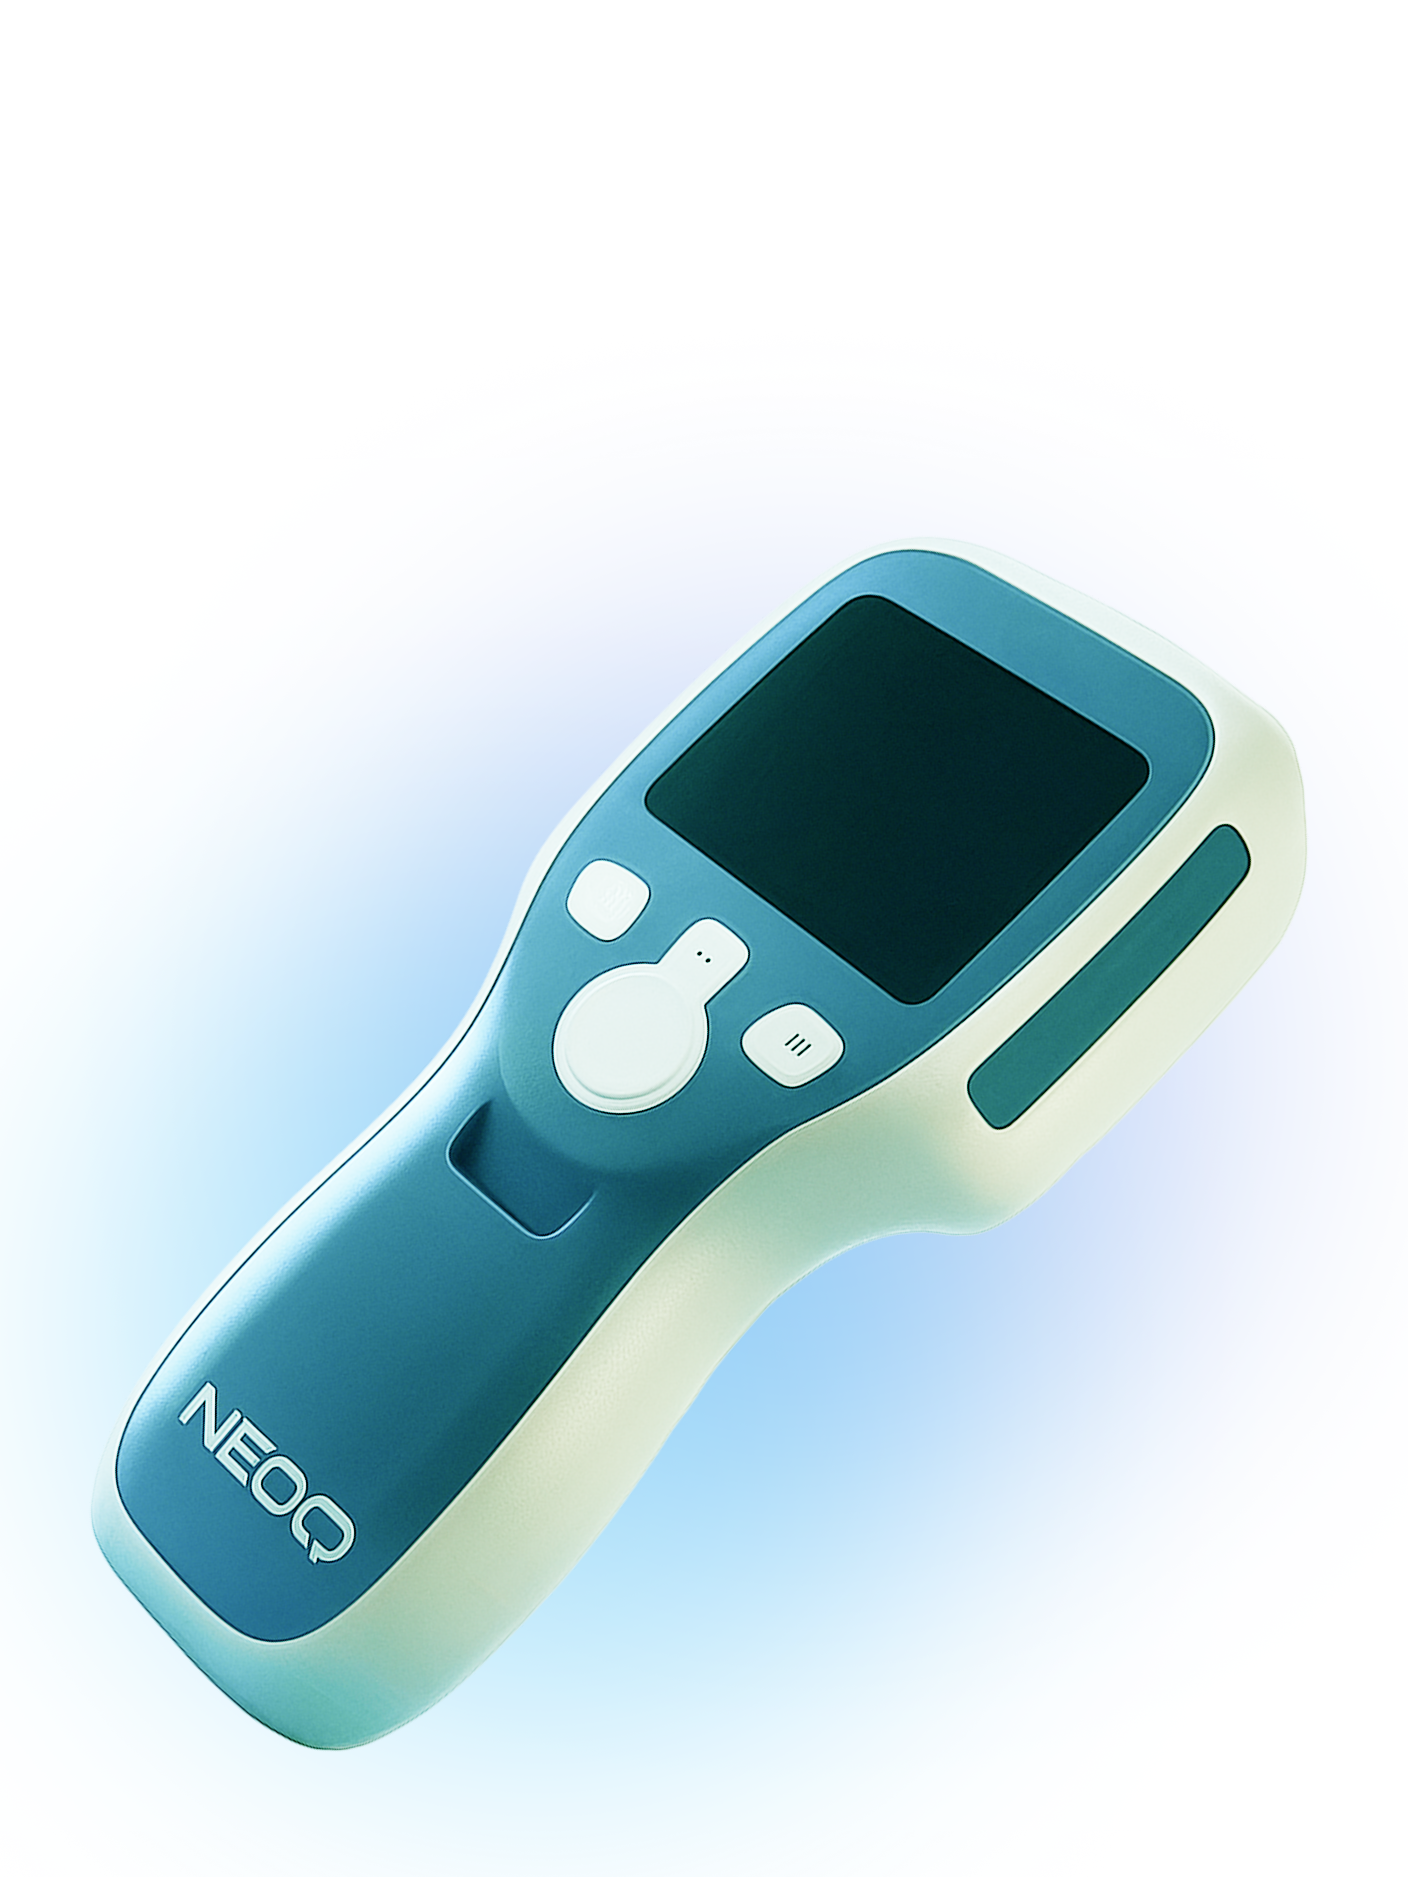
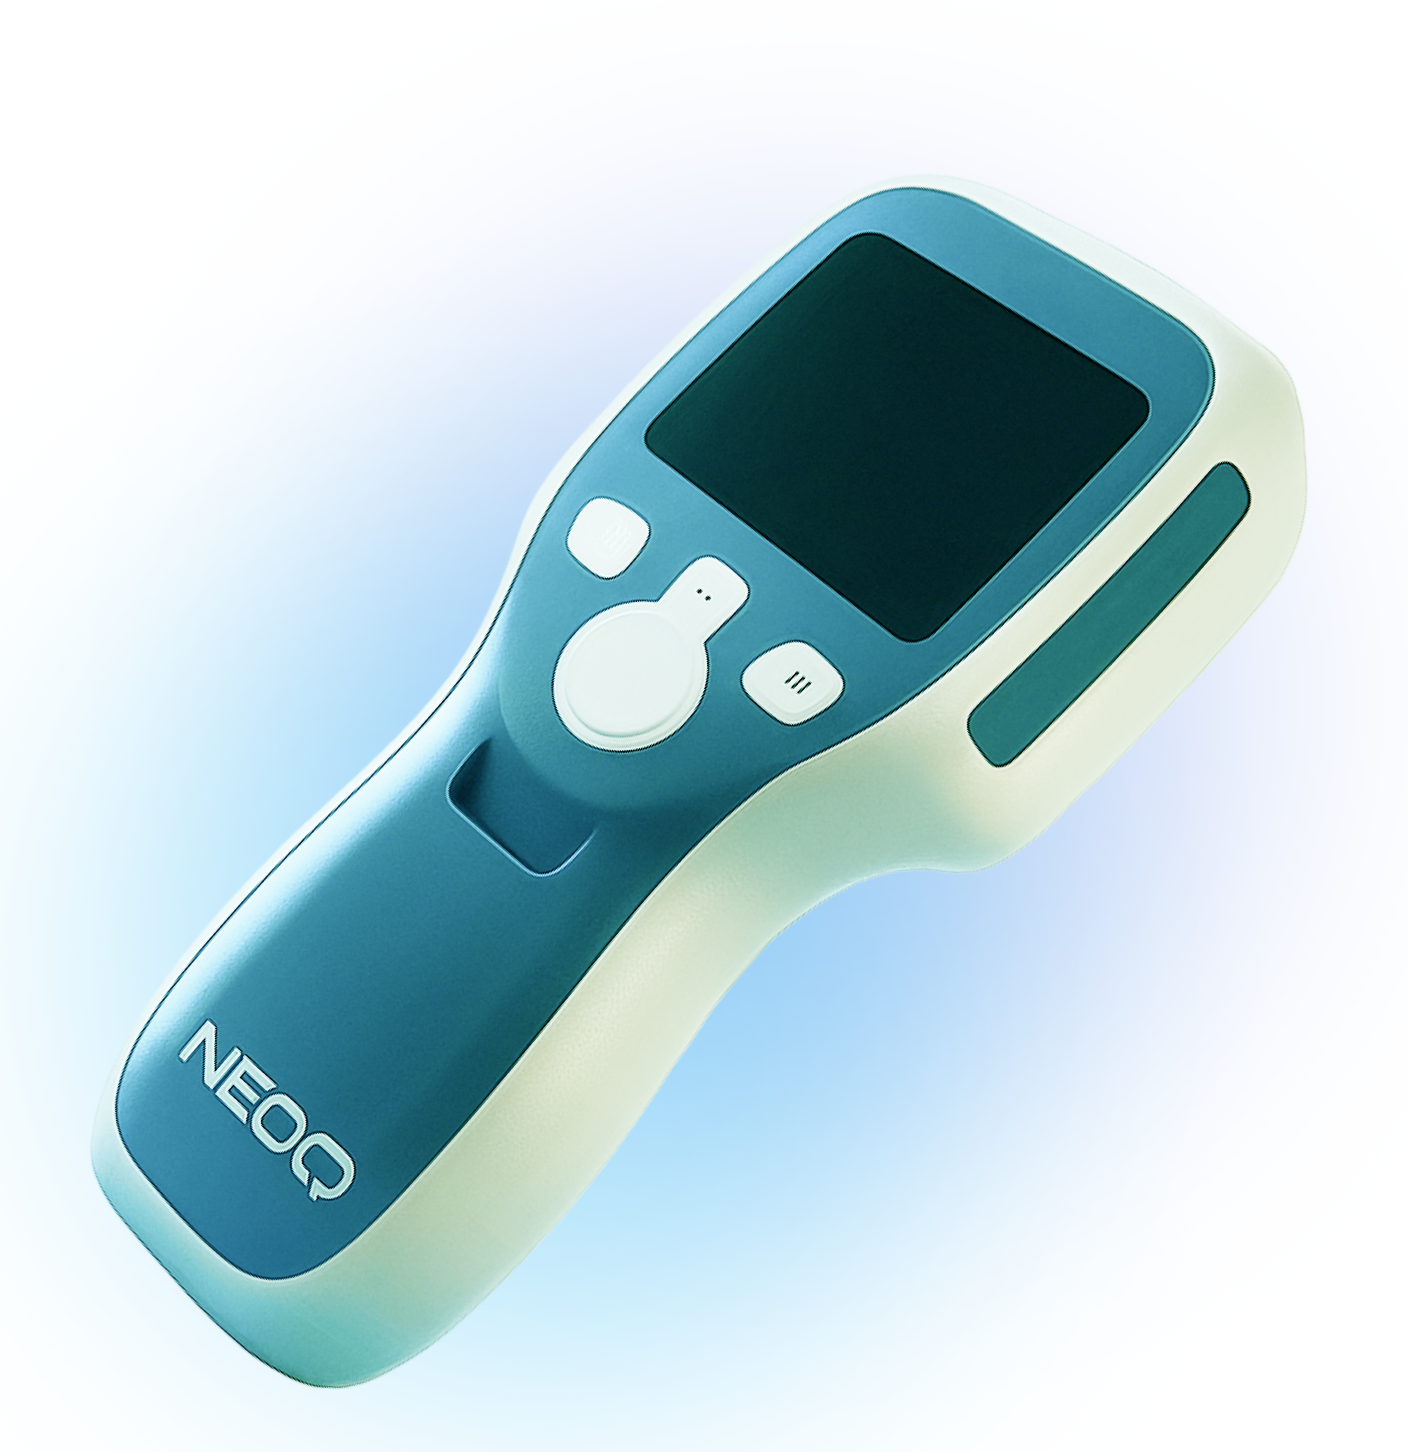
product card adjusted

Changed region(s): [[0.0625, 0.124, 0.9375, 0.9607], [0.4062, 0.8058, 0.4375, 0.8368]]

diff --git a/src/components/Products.jsx b/src/components/Products.jsx
@@ -1,16 +1,11 @@
 import { useState } from "react";
 import product0 from "../assets/Product0.png";
-import product1 from "../assets/Product1.png"; 
+import product1 from "../assets/Product1.png";
 import product2 from "../assets/Product2.png";
-import upArrow from "../assets/UpArrow.png";  
+import upArrow from "../assets/UpArrow.png";
 import downArrow from "../assets/DownArrow.png";
 
-const ProductCard = ({ 
-  title, 
-  subtitle, 
-  image, 
-  description,
-}) => {
+const ProductCard = ({ title, subtitle, image, description }) => {
   const [isFlipped, setIsFlipped] = useState(false);
 
   const handleFlip = () => {
@@ -20,11 +15,15 @@ const ProductCard = ({
   return (
     <>
       <div className="flip-card">
-        <div className={`flip-card-inner ${isFlipped ? 'flipped' : ''}`} onClick={handleFlip}>
+        <div
+          className={`flip-card-inner ${isFlipped ? "flipped" : ""}`}
+          onClick={handleFlip}
+        >
           {/* Front Side */}
           <div className="flip-card-front">
-            <div className="p-5 lg:p-6 h-full">
-              <div className="flex justify-between items-start mb-6 lg:mb-7">
+            <div className="p-0 h-full flex flex-col">
+              {/* Top: Title & Subtitle */}
+              <div className="flex justify-between items-start px-5 pt-5 pb-4">
                 <div className="w-[60%] text-left">
                   <h3 className="text-2xl lg:text-[32px] font-bold leading-tight lg:leading-[40px] text-[#00145B] mb-2">
                     {title}
@@ -37,15 +36,17 @@ const ProductCard = ({
                   <img
                     src={upArrow}
                     alt="Flip card"
-                    className="w-8 h-8 object-contain"
+                    className="w-16 h-16 object-contain"
                   />
                 </div>
               </div>
-              <div className="relative flex justify-center items-center h-[calc(100%-100px)]">
+
+              {/* Bottom: Full-width Image with Glow */}
+              <div className="relative w-full mt-auto">
                 <img
                   src={image}
                   alt={`${title} device`}
-                  className="max-w-full max-h-full object-contain"
+                  className="w-full h-auto object-contain relative z-10 scale-[1.1]"
                 />
               </div>
             </div>
@@ -67,21 +68,21 @@ const ProductCard = ({
               </div>
               <div className="relative w-full h-full">
                 <img
-                    src={downArrow}
-                    alt="Flip back"
-                    className="w-8 h-8 object-contain opacity-60 absolute bottom-0 left-0"
+                  src={downArrow}
+                  alt="Flip back"
+                  className="w-8 h-8 object-contain opacity-60 absolute bottom-0 left-0"
                 />
-                </div>
+              </div>
             </div>
           </div>
         </div>
       </div>
-      
+
       <style jsx>{`
         .flip-card {
           background-color: transparent;
           width: 100%;
-          height: 400px;
+          height: 500px;
           perspective: 1000px;
           cursor: pointer;
         }
@@ -91,7 +92,7 @@ const ProductCard = ({
           width: 100%;
           height: 100%;
           text-align: center;
-          transition: transform 0.7s cubic-bezier(0.4, 0.0, 0.2, 1);
+          transition: transform 0.7s cubic-bezier(0.4, 0, 0.2, 1);
           transform-style: preserve-3d;
         }
 
@@ -99,7 +100,8 @@ const ProductCard = ({
           transform: rotateY(180deg);
         }
 
-        .flip-card-front, .flip-card-back {
+        .flip-card-front,
+        .flip-card-back {
           position: absolute;
           width: 100%;
           height: 100%;
@@ -121,13 +123,13 @@ const ProductCard = ({
             height: 350px;
           }
         }
-        
+
         /* Hover effect for desktop */
         @media (min-width: 1024px) {
           .flip-card:hover .flip-card-inner:not(.flipped) {
             transform: translateY(-2px) scale(1.02);
           }
-          
+
           .flip-card:hover .flip-card-inner.flipped {
             transform: translateY(-2px) scale(1.02) rotateY(180deg);
           }
@@ -143,20 +145,23 @@ const Products = () => {
       title: "NeoTrak",
       subtitle: "Wearable Neonatal Monitor",
       image: product0,
-      description: "NeoTrak is a non-invasive, skin-friendly patch designed to continuously monitor vital parameters in preterm and low birth weight infants. It tracks respiration, Skin Bilirubin, Hydration, Body and ambient Temperature, and more, with real-time alerts via a connected dashboard. Ideal for hospitals and home care, it reduces manual monitoring and enables timely intervention."
+      description:
+        "NeoTrak is a non-invasive, skin-friendly patch designed to continuously monitor vital parameters in preterm and low birth weight infants. It tracks respiration, Skin Bilirubin, Hydration, Body and ambient Temperature, and more, with real-time alerts via a connected dashboard. Ideal for hospitals and home care, it reduces manual monitoring and enables timely intervention.",
     },
     {
       title: "BiliFast",
       subtitle: "Rapid Jaundice Detection Kit",
-      image: product1, 
-      description: "BiliFast is a rapid, non-invasive jaundice detection kit designed for quick and accurate assessment of bilirubin levels in newborns. Using advanced photometric technology, it provides instant results without the need for blood samples, making it ideal for routine screening in hospitals, clinics, and community health centers."
+      image: product1,
+      description:
+        "BiliFast is a rapid, non-invasive jaundice detection kit designed for quick and accurate assessment of bilirubin levels in newborns. Using advanced photometric technology, it provides instant results without the need for blood samples, making it ideal for routine screening in hospitals, clinics, and community health centers.",
     },
     {
       title: "BiliFast Pro",
-      subtitle: "Handheld Jaundice Monitor", 
-      image: product2, 
-      description: "BiliFast Pro is an enhanced version of our jaundice detection system, featuring improved accuracy, cloud connectivity, and comprehensive reporting capabilities. Perfect for healthcare facilities requiring detailed documentation and remote monitoring of neonatal jaundice cases."
-    }
+      subtitle: "Handheld TcB Monitor",
+      image: product2,
+      description:
+        "BiliFast Pro is an enhanced version of our jaundice detection system, featuring improved accuracy, cloud connectivity, and comprehensive reporting capabilities. Perfect for healthcare facilities requiring detailed documentation and remote monitoring of neonatal jaundice cases.",
+    },
   ];
 
   return (

diff --git a/src/components/About.jsx b/src/components/About.jsx
@@ -17,8 +17,8 @@ const AboutUs = () => {
           {/* Left Column */}
           <div className="flex flex-col gap-8 w-full lg:w-1/2">
             {/* Mission Card */}
-            <div className="bg-global-3 rounded-3xl p-8 lg:p-14">
-              <div className="flex flex-col sm:flex-row gap-6 lg:gap-7 items-start lg:items-center lg:justify-center">
+            <div className="bg-global-3 rounded-3xl p-8 lg:p-14 min-h-[200px] sm:min-h-[180px] lg:min-h-[160px]">
+              <div className="flex flex-col sm:flex-row gap-6 lg:gap-7 items-start lg:items-center lg:justify-center h-full">
                 <div className="w-16 h-16 flex-shrink-0">
                   <img
                     src={missionIcon}
@@ -40,25 +40,24 @@ const AboutUs = () => {
               </div>
             </div>
 
-            {/* Care Card */}
-            <div className="bg-global-3 rounded-3xl p-8 lg:p-12 lg:relative">
-              <div className="flex flex-col lg:flex-row items-start lg:items-center gap-6 lg:gap-8">
-                <div className="flex-1 lg:w-[42%]">
+            {/* Care Card - Matching Engineers card height */}
+            <div className="bg-global-3 rounded-3xl p-8 lg:p-12 relative overflow-hidden min-h-[320px] sm:min-h-[300px] lg:min-h-[280px]">
+              <div className="flex flex-col lg:flex-row items-start lg:items-center gap-6 lg:gap-8 h-full">
+                <div className="flex-1 lg:w-[58%] lg:pr-4">
                   <p className="text-base sm:text-lg font-azeret leading-6 lg:leading-[25px] text-left">
                     <span className="font-semibold text-global-1">
-                      Every newborn deserves accurate care.{" "}
+                      Every newborn <br />deserves accurate <br />care.{" "}
                     </span>
                     <span className="font-normal text-global-3">
-                      No matter where they are born, timely diagnosis should be
-                      a right, not a privilege.
+                      No matter where <br />they are born, timely <br />diagnosis should be <br />a right, not a privilege.
                     </span>
                   </p>
                 </div>
-                <div className="w-full lg:w-[48%] lg:self-end">
+                <div className="absolute bottom-0 right-0 w-40 h-44 lg:w-48 lg:h-56">
                   <img
                     src={cribIcon}
                     alt="Medical chart"
-                    className="lg:absolute lg:bottom-0 lg:right-0 w-64 h-56 object-contain"
+                    className="w-full h-full object-contain"
                   />
                 </div>
               </div>
@@ -68,8 +67,8 @@ const AboutUs = () => {
           {/* Right Column */}
           <div className="flex flex-col gap-8 w-full lg:w-1/2">
             {/* Engineers & Clinicians Card */}
-            <div className="bg-global-3 rounded-3xl p-8 lg:p-12">
-              <div className="text-center">
+            <div className="bg-global-3 rounded-3xl p-8 lg:p-12 min-h-[320px] sm:min-h-[300px] lg:min-h-[280px]">
+              <div className="text-center h-full flex flex-col justify-center">
                 <p className="text-lg sm:text-xl font-azeret leading-6 lg:leading-[22px] text-left mb-6 lg:mb-8">
                   <span className="font-semibold text-global-1">Built by</span>
                   <br />
@@ -94,20 +93,20 @@ const AboutUs = () => {
               </div>
             </div>
 
-            {/* Research Card */}
-            <div className="bg-global-3 rounded-3xl relative overflow-hidden h-56">
-              <div className="p-8 lg:p-12 relative z-10">
+            {/* Research Card - Matching Mission card height */}
+            <div className="bg-global-3 rounded-3xl relative overflow-hidden min-h-[200px] sm:min-h-[180px] lg:min-h-[160px]">
+              <div className="p-8 lg:p-12 relative z-10 h-full flex items-center">
                 <p className="text-base sm:text-xl font-azeret leading-6 lg:leading-[24px] text-left">
                   <span className="text-lg font-bold text-global-1">
                     Driven by research
                   </span>
                   <span className="font-normal text-global-2">
-                    , grounded in care. We work closely with pediatric experts
-                    and validate every product in the field.
+                    , grounded in care. We <br /> work closely with pediatric experts
+                    and <br />validate every product in the field.
                   </span>
                 </p>
               </div>
-              <div className="absolute bottom-0 right-0 w-32 h-32">
+              <div className="absolute bottom-0 right-0 w-32 h-32 lg:w-40 lg:h-40">
                 <img
                   src={researchIcon}
                   alt="Research flask"

diff --git a/src/components/Navbar.jsx b/src/components/Navbar.jsx
@@ -16,8 +16,8 @@ const Navbar = () => {
 
   return (
     <>
-      <header className="w-full top-0 bg-white mt-6 px-4 sm:px-6 lg:px-8 fixed z-50">
-        <div className="w-full max-w-7xl mx-auto">
+      <header className="w-full top-0 bg-white px-4 sm:px-6 lg:px-8 fixed z-50">
+        <div className="w-full mt-6 mb-6 max-w-7xl mx-auto">
           <div className="flex justify-between items-center w-full">
             {/* Logo */}
             <div className="w-[150px] h-[32px] lg:ml-28 flex-shrink-0">

diff --git a/src/components/Contact.jsx b/src/components/Contact.jsx
@@ -121,7 +121,7 @@ const ContactUs = () => {
                   <span className="text-base font-montserrat font-semibold leading-5">
                     Send
                   </span>
-                  <Send className="w-5 h-5" />
+                  <Send className="w-5 h-8" />
                 </Button>
               </div>
             </form>

diff --git a/src/styles.css b/src/styles.css
@@ -85,6 +85,7 @@
 
 html {
   scroll-behavior: smooth;
+  overflow-x: hidden;
 }
 
 button:focus,
